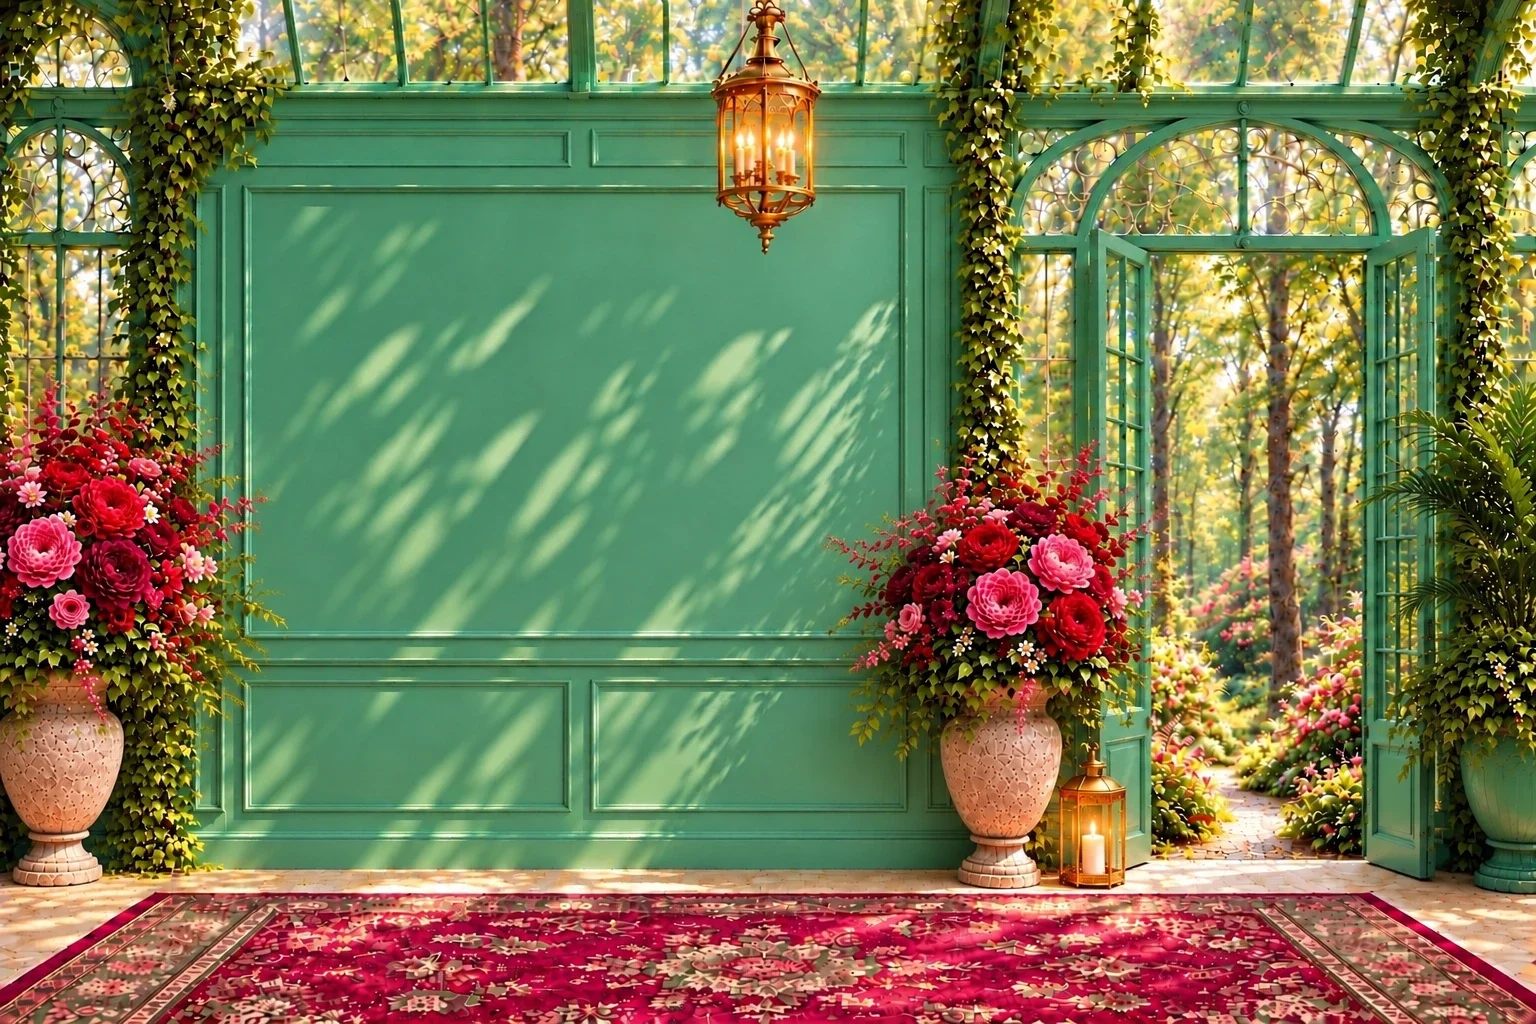
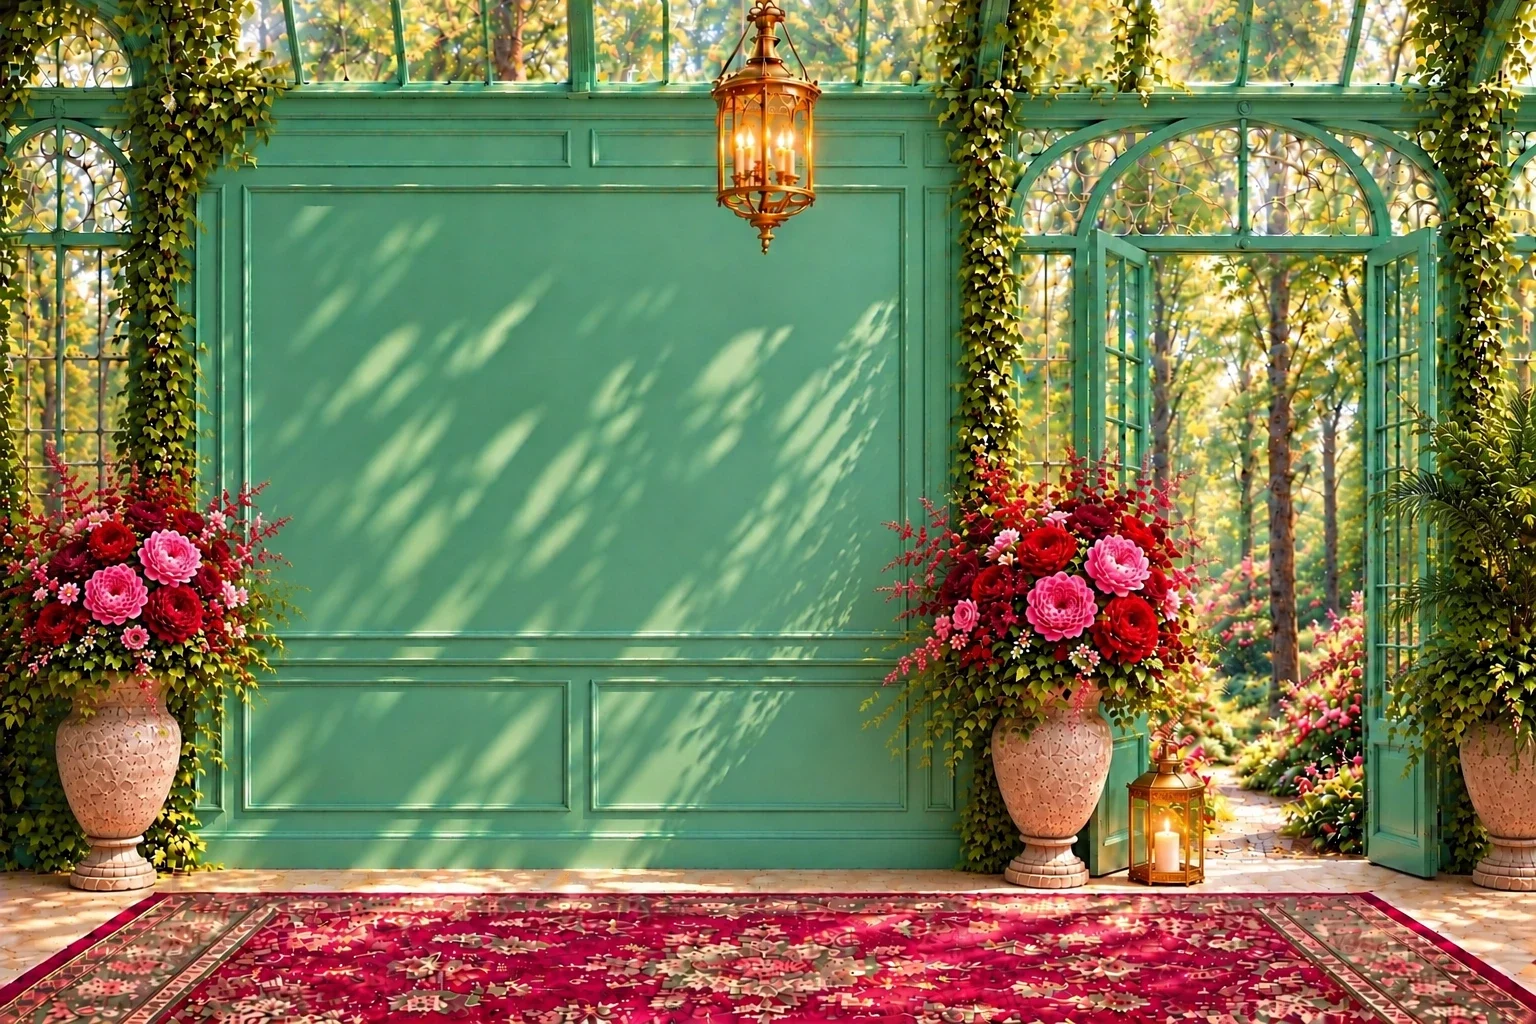
Lady: neuestes Gewächshaus mit kleineren Pflanzen (1.91.2)

diff --git a/index.html b/index.html
@@ -1855,7 +1855,7 @@ html.theme-retreat .shelf-orchid{ position:absolute; left:0; bottom:-13.8%; heig
 
 <script>
 /* Bump on every published update, so it's visible at a glance whether the newest version is loaded. */
-const APP_VERSION = '1.91.1';
+const APP_VERSION = '1.91.2';
 /* Design (since 1.80.0, see the small script in <head>): in "Business" (BIZ) the gold paper icons are swapped for plain line
    icons (img/icons-rl/*.svg) wherever they appear – also in everything drawn later – so the rest of the code stays as it is. */
 // A Lady's Conservatory (1.84.0, named so since 1.86.1; key 'retreat' and RETREAT stay): light, cream and forest green; until its own pictures come it uses those of A Gentleman's Study (with the

diff --git a/CLAUDE.md b/CLAUDE.md
@@ -125,7 +125,7 @@ Der Nutzer ist kein Entwickler. Erkläre Schritte einfach und auf Deutsch.
 - Veröffentlicht über **GitHub Pages** aus diesem Repository (Branch `main`, Ordner `/`):
   https://k9vk58y99f-max.github.io/k9vk58y99f-max.github.io-ewolfe-app-/
 - Ein Commit + Push auf `main` ist die Veröffentlichung; nach 1–2 Minuten ist es live.
-- Bei jeder Änderung `APP_VERSION` erhöhen (aktuell `1.91.1`) und `APP_BUILD` anpassen.
+- Bei jeder Änderung `APP_VERSION` erhöhen (aktuell `1.91.2`) und `APP_BUILD` anpassen.
   Die Version steht unten in der App.
 
 ## Neu seit 1.55.0 (iPad, Wischen, Tagebuch, Sticker, Impulskarten)
